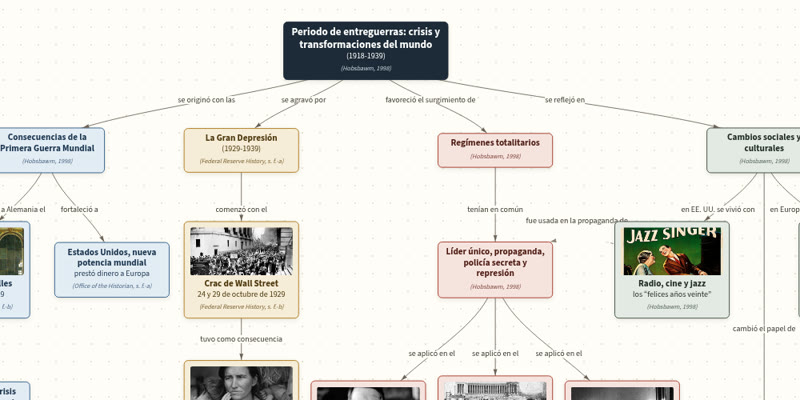
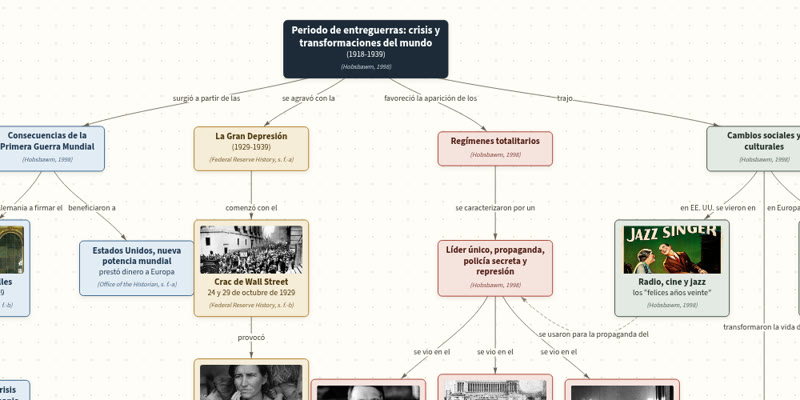
Aclara las palabras de enlace del mapa conceptual
- Cada flecha se lee como una oración completa
- Agrega una línea de "Cómo leerlo" y actualiza la miniatura del índice

diff --git a/Modulo_10_G82/Semana_1_2-8_noviembre/mapa-conceptual.html b/Modulo_10_G82/Semana_1_2-8_noviembre/mapa-conceptual.html
@@ -91,6 +91,7 @@
     </header>
 
     <div class="barra">
+        <span><b>Cómo leerlo:</b> cada flecha forma una oración, por ejemplo «La Gran Depresión → comenzó con el → Crac de Wall Street».</span>
         <span>Arrastra los recuadros para moverlos · Usa la rueda del mouse o dos dedos para acercar · Pasa el mouse sobre un recuadro para ver su referencia completa</span>
         <button type="button" id="reacomodar">Reacomodar</button>
     </div>
@@ -152,12 +153,12 @@
         ["P1", "p", "Consecuencias de la Primera Guerra Mundial", "", "HOB", null, null, -740, -380],
         ["P2", "p", "Tratado de Versalles", "28 de junio de 1919", "OHb", "versalles.jpg", "Orpen, W. (1919)", -890, -140],
         ["P3", "p", "Resentimiento y crisis económica en Alemania", "", "USHMM", null, null, -890, 130],
-        ["P4", "p", "Estados Unidos, nueva potencia mundial", "prestó dinero a Europa", "OHa", null, null, -610, -140],
+        ["P4", "p", "Estados Unidos, nueva potencia mundial", "prestó dinero a Europa", "OHa", null, null, -560, -140],
 
-        ["G1", "g", "La Gran Depresión", "(1929-1939)", "FEDa", null, null, -350, -380],
-        ["G2", "g", "Crac de Wall Street", "24 y 29 de octubre de 1929", "FEDb", "crac.jpg", "Associated Press (1929)", -350, -140],
-        ["G3", "g", "Quiebra de bancos, desempleo y pobreza", "", "FEDa", "madre-migrante.jpg", "Lange, D. (1936)", -350, 140],
-        ["G4", "g", "Desconfianza en la democracia", "", "USHMM", null, null, -350, 450],
+        ["G1", "g", "La Gran Depresión", "(1929-1939)", "FEDa", null, null, -330, -380],
+        ["G2", "g", "Crac de Wall Street", "24 y 29 de octubre de 1929", "FEDb", "crac.jpg", "Associated Press (1929)", -330, -140],
+        ["G3", "g", "Quiebra de bancos, desempleo y pobreza", "", "FEDa", "madre-migrante.jpg", "Lange, D. (1936)", -330, 140],
+        ["G4", "g", "Desconfianza en la democracia", "", "USHMM", null, null, -330, 450],
 
         ["T1", "t", "Regímenes totalitarios", "", "HOB", null, null, 160, -380],
         ["T2", "t", "Líder único, propaganda, policía secreta y represión", "", "HOB", null, null, 160, -140],
@@ -167,37 +168,37 @@
 
         ["S1", "s", "Cambios sociales y culturales", "", "HOB", null, null, 700, -380],
         ["S2", "s", "Radio, cine y jazz", "los “felices años veinte”", "HOB", "cantante-jazz.jpg", "Autor desconocido (1927)", 515, -140],
-        ["S3", "s", "Vanguardias en Europa", "dadaísmo y surrealismo", "HOB", "dada.jpg", "Autor desconocido (1916)", 885, -140],
+        ["S3", "s", "Vanguardias artísticas", "dadaísmo y surrealismo", "HOB", "dada.jpg", "Autor desconocido (1916)", 885, -140],
         ["S4", "s", "Las mujeres", "trabajo y derecho al voto (EE. UU., 1920)", "NARA", "voto-mujeres.jpg", "National Photo Company (1920)", 700, 340]
     ];
 
     // [desde, hacia, palabra de enlace, punteada, curva]
     const ENLACES = [
-        ["C", "P1", "se originó con las"],
-        ["C", "G1", "se agravó por"],
-        ["C", "T1", "favoreció el surgimiento de"],
-        ["C", "S1", "se reflejó en"],
+        ["C", "P1", "surgió a partir de las"],
+        ["C", "G1", "se agravó con la"],
+        ["C", "T1", "favoreció la aparición de los"],
+        ["C", "S1", "trajo"],
 
-        ["P1", "P2", "impuso a Alemania el"],
+        ["P1", "P2", "obligaron a Alemania a firmar el"],
         ["P2", "P3", "provocó"],
-        ["P1", "P4", "fortaleció a"],
+        ["P1", "P4", "beneficiaron a"],
 
         ["G1", "G2", "comenzó con el"],
-        ["G2", "G3", "tuvo como consecuencia"],
+        ["G2", "G3", "provocó"],
         ["G3", "G4", "generó"],
 
-        ["T1", "T2", "tenían en común"],
-        ["T2", "N", "se aplicó en el"],
-        ["T2", "F", "se aplicó en el"],
-        ["T2", "E", "se aplicó en el"],
+        ["T1", "T2", "se caracterizaron por un"],
+        ["T2", "N", "se vio en el"],
+        ["T2", "F", "se vio en el"],
+        ["T2", "E", "se vio en el"],
 
-        ["S1", "S2", "en EE. UU. se vivió con"],
-        ["S1", "S3", "en Europa se expresó en"],
-        ["S1", "S4", "cambió el papel de"],
+        ["S1", "S2", "en EE. UU. se vieron en"],
+        ["S1", "S3", "en Europa se vieron en las"],
+        ["S1", "S4", "transformaron la vida de"],
 
         ["P3", "N", "favoreció el ascenso del", true, { type: "curvedCCW", roundness: 0.3 }],
         ["G4", "N", "facilitó el triunfo del", true, { type: "curvedCCW", roundness: 0.4 }],
-        ["S2", "T2", "fue usada en la propaganda de", true, { type: "curvedCCW", roundness: 0.35 }]
+        ["S2", "T2", "se usaron para la propaganda del", true, { type: "curvedCW", roundness: 0.7 }]
     ];
 
     const FAMILIA = "'Source Sans 3', 'Segoe UI', Arial, sans-serif";
@@ -308,7 +309,7 @@
         color: { color: punteada ? "#8a7f73" : "#6b6157", highlight: "#2b2622", hover: "#2b2622" },
         width: 1.4,
         smooth: curva || (punteada ? { type: "curvedCW", roundness: 0.12 } : { type: "cubicBezier", forceDirection: "vertical", roundness: 0.4 }),
-        font: label === "fue usada en la propaganda de" ? { ...fuenteEnlace, vadjust: -34 } : fuenteEnlace
+        font: label === "se usaron para la propaganda del" ? { ...fuenteEnlace, vadjust: 0 } : fuenteEnlace
     })));
 
     const red = new vis.Network(document.getElementById("mapa"), { nodes: nodos, edges: enlaces }, {
